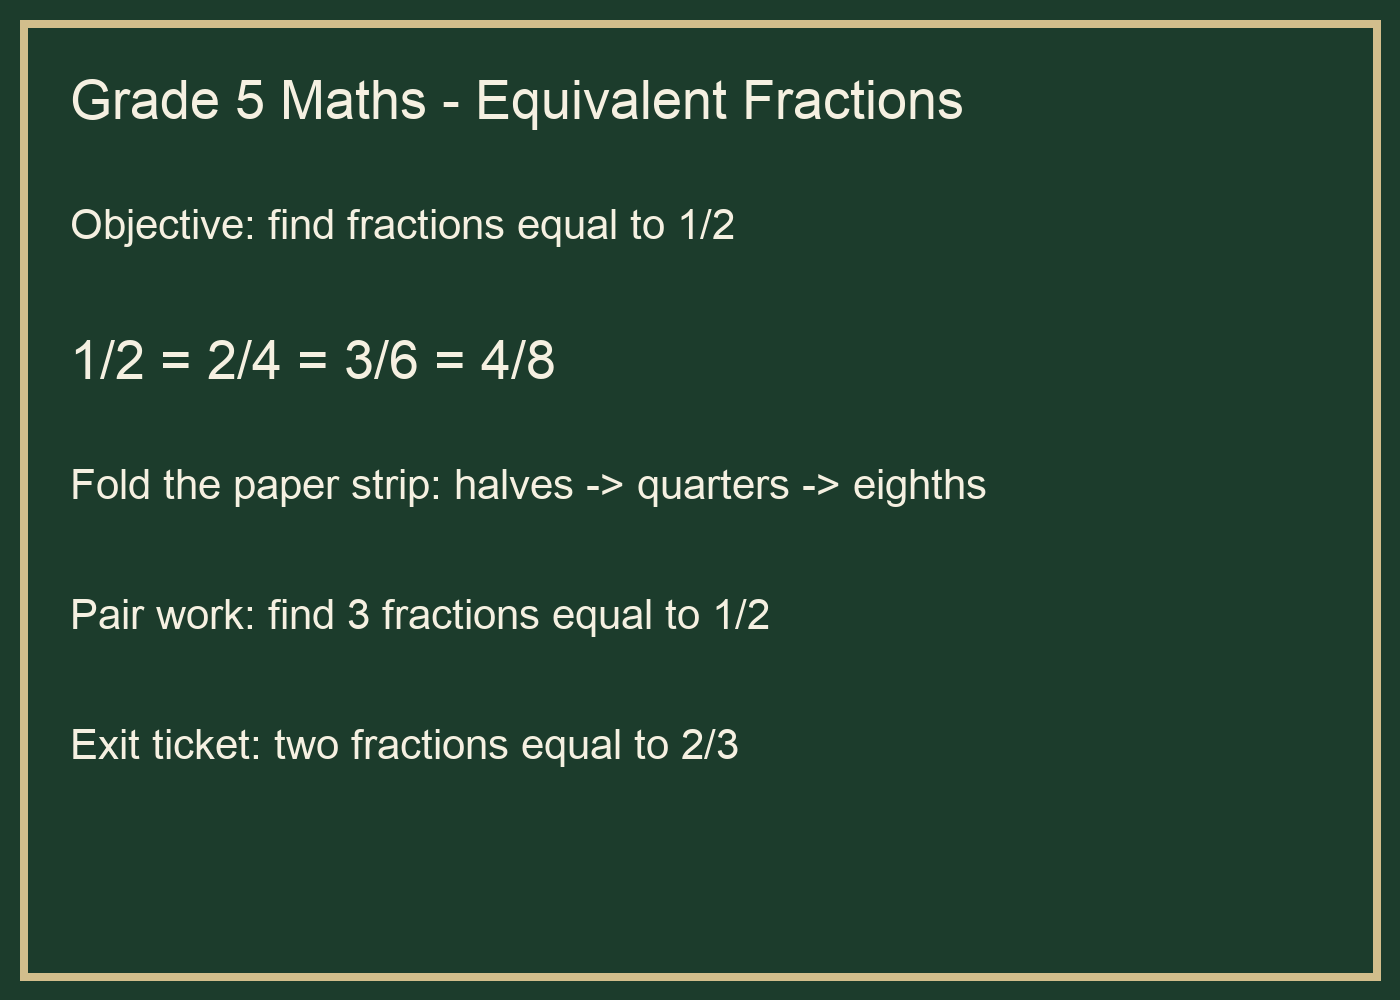
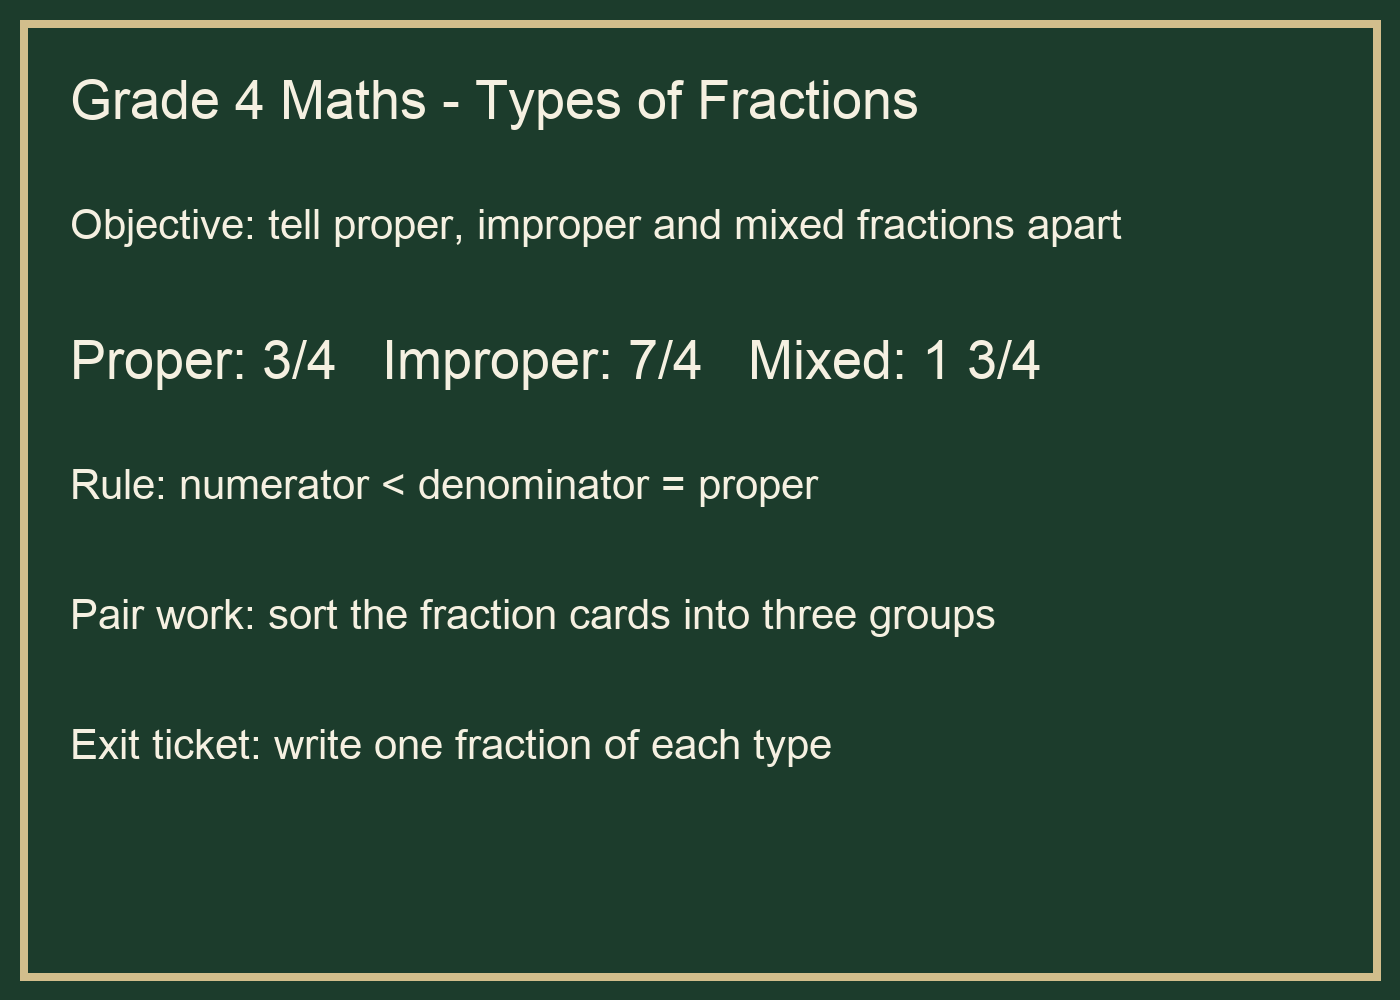
qa(coaching): unblock what the harness can — the slash branch as its own pipeline (COA10), a plan that matches the recording (COA20), the quiz-offer cohort on the next free day (COA47)

diff --git a/.claude/qa/shared/niete_training_db.py b/.claude/qa/shared/niete_training_db.py
@@ -602,6 +602,7 @@ def cmd_seed_lp_download(creds, a):
     body = {"user_id": uid, "lesson_id": r["lesson_id"], "asset_id": r["asset_id"], "version_stamp": r["version_stamp"], "content_hash": r["content_hash"],
             "phone": a.phone, "status": "sent", "grade": str(r.get("g") or (m.group(1) if m else "1")), "subject": str(r.get("s") or (m.group(2) if m else "maths")),
             "chapter_number": int(m.group(3)) if m else None, "segment_index": int(m.group(4)) if m else None, "correlation_id": QA_LP_DOWNLOAD_CID}
+    if getattr(a, "created_at", None): body["created_at"] = a.created_at
     if not a.yes_write: print(json.dumps({"dry_run": True, "would_insert": body})); return
     created, _ = _req("POST", "/rest/v1/niete_lp_downloads", creds, body=[body], prefer="return=representation")
     row = (created or [{}])[0]
@@ -813,7 +814,7 @@ def main():
     # seed-lp-download: a lesson plan the driver "took today" (niete_lp_downloads status sent, the exact served
     # version that has a slide script) so /quiz lists it "From lesson plan" with no quiz yet (T64/T65/T67).
     sld = sub.add_parser("seed-lp-download", parents=[common]); sld.add_argument("--phone", required=True); sld.add_argument("--lesson-id", dest="lesson_id")
-    sld.add_argument("--restore", action="store_true"); sld.add_argument("--yes-write", action="store_true")
+    sld.add_argument("--restore", action="store_true"); sld.add_argument("--yes-write", action="store_true"); sld.add_argument("--created-at", dest="created_at", help="ISO timestamp the download was taken (lp-quiz-offer cohorts are built per PKT day)")
     sld.add_argument("--donor-version", action="store_true", dest="donor_version", help="serve the version another teacher's clean SENT quiz was written from, so the lp quiz cache can donate (T66)")
     # seed-coaching-session: a COMPLETED coaching session with a transcript the driver can make a quiz from
     # (T47/T79–T83). --transcript-file holds the text (>= 1500 chars); analysis_data carries topic/subject.
